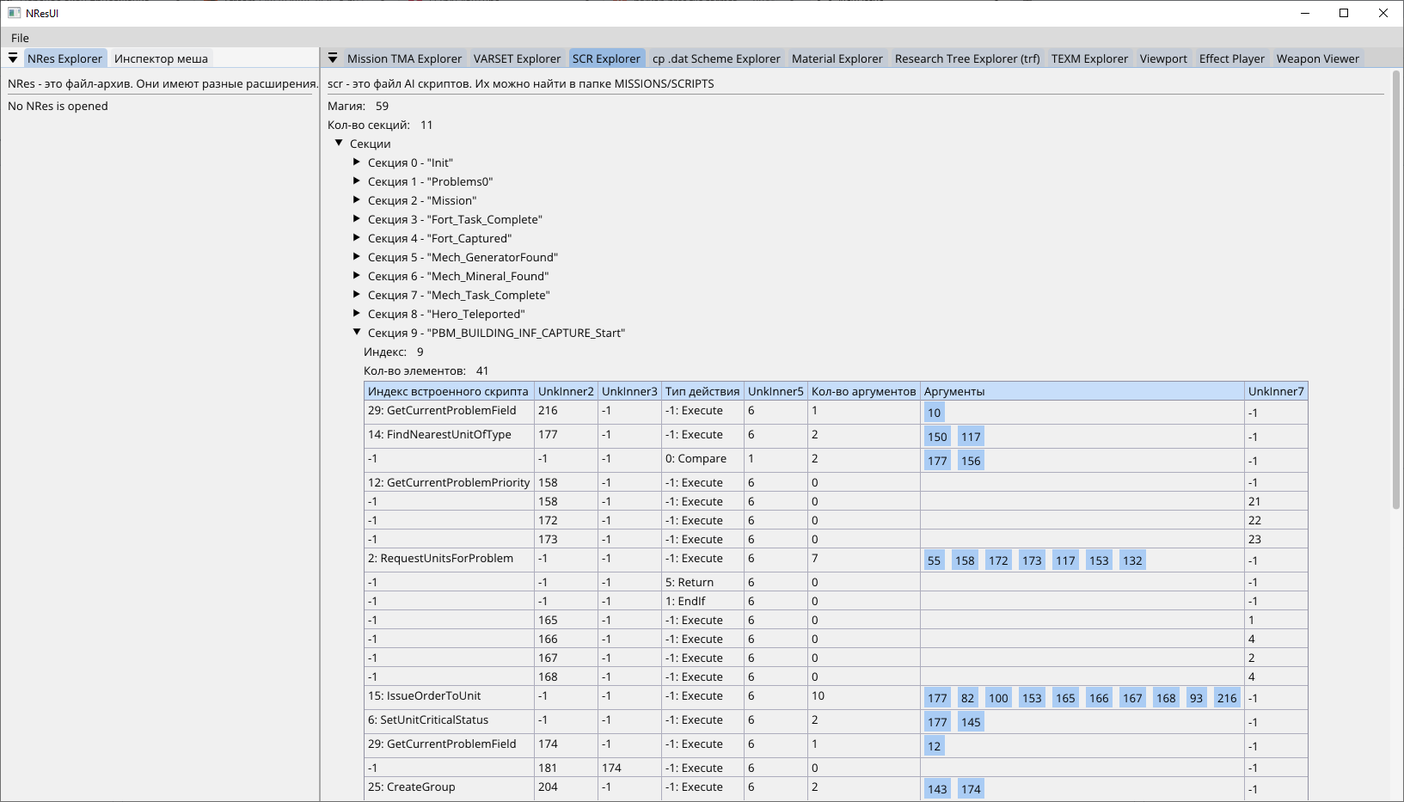
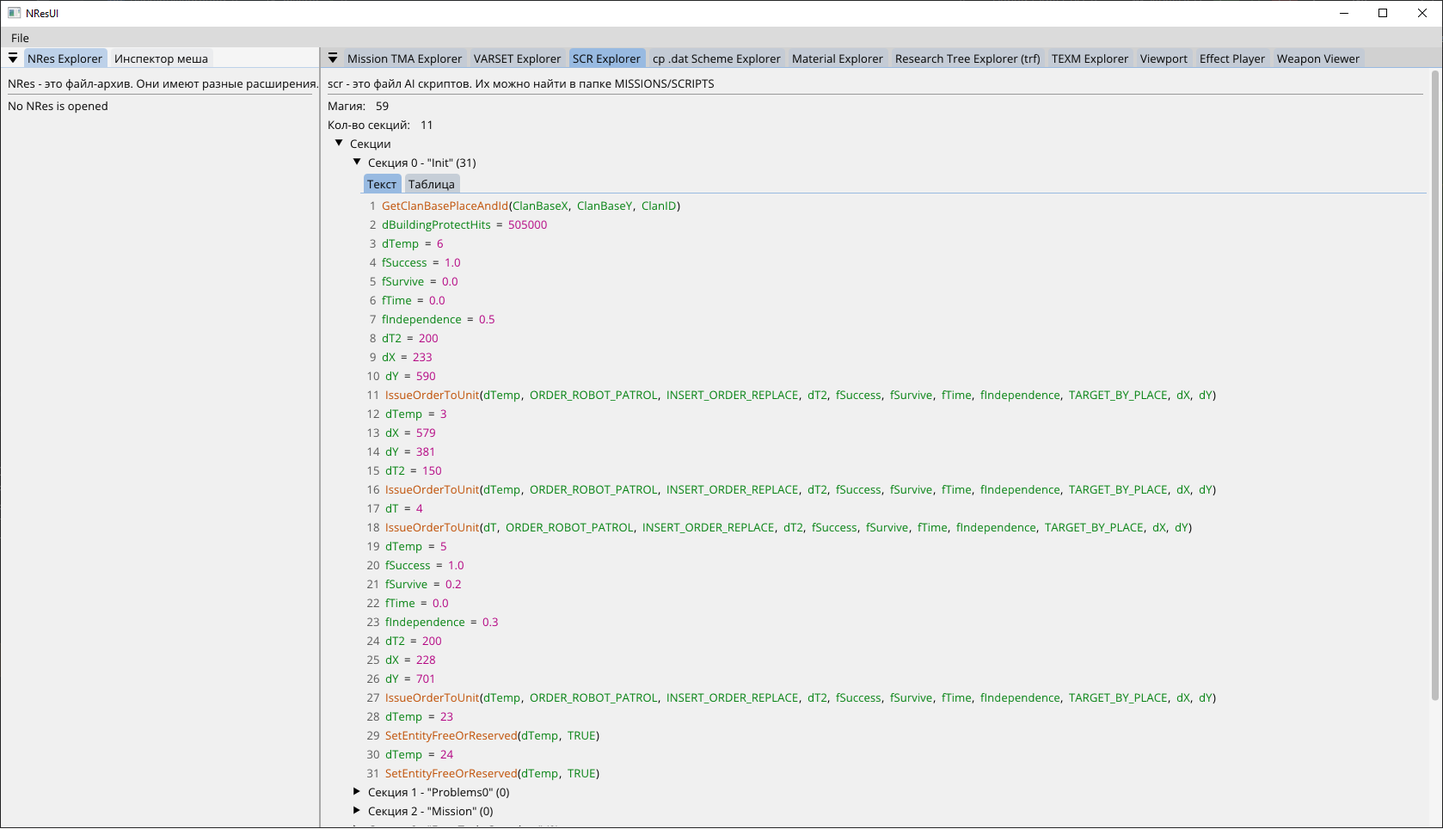
ScrLib: named built-in actions 18, 36, 40, 41, 43-45, 47, RequestUnitsForProblem docs, new screenshot

diff --git a/ScrLib/ScrActions.cs b/ScrLib/ScrActions.cs
@@ -4,7 +4,7 @@ namespace ScrLib;
 /// Встроенные функции скриптов (<c>ScrEntryInner.NativeActionIndex</c> у инструкций типа Execute): таблица <c>action_0..action_58</c> в ai.dll
 /// (<c>SuperAI::ctor</c>, 0x02461000). Названы по декомпилированному коду и по использованию в 75 .scr
 /// (аргументы - переменные Varset, имена и константы в <c>MISSIONS/SCRIPTS/varset.var</c>). Поведение в игре не наблюдалось.
-/// Функции без записи в таблице не разобраны.
+/// Функции без записи в таблице (1, 4, 5, 10, 21, 22, 23, 26, 33, 39, 42, 46, 48, 53, 55) не встречаются ни в одном .scr игры, реверс по ним остановлен.
 /// </summary>
 public static class ScrActions
 {
@@ -24,6 +24,7 @@ public static class ScrActions
         [15] = "IssueOrderToUnit",
         [16] = "GetStorageResourceAmount",
         [17] = "GetMineResourceAmount",
+        [18] = "FindBuildPlaceNearBase",
         [19] = "GetClanBasePlaceAndId",
         [20] = "RegisterProblemTargetPoint",
         [24] = "DisbandGroup",
@@ -36,8 +37,15 @@ public static class ScrActions
         [32] = "ArealContainsLogicId",
         [34] = "CountOwnUnitsByType",
         [35] = "FindNearestEnemyUnit",
+        [36] = "FindWeakestEnemyTarget",
         [37] = "FindNearestOwnBuilding",
         [38] = "CountSummaryClanBF",
+        [40] = "FindFreeDepositOrEnemyMine",
+        [41] = "StartSelectedResearch",
+        [43] = "SelectCheapestScheme",
+        [44] = "CalcWeightAroundPoint",
+        [45] = "GetProblemAssignedWeight",
+        [47] = "FindEnemyNearBase",
         [49] = "CountFreeMinds",
         [50] = "GetUnitFromProblem",
         [51] = "SetEntityFreeOrReserved",
@@ -48,6 +56,63 @@ public static class ScrActions
         [58] = "GetOwnBuildingByIndex",
     };
 
+    /// <summary>
+    /// Ожидаемые аргументы и результат встроенных функций (по использованию в 75 .scr и коду ai.dll; поведение в игре не наблюдалось).
+    /// Аргументы - переменные Varset, перечислены по порядку; у функций без записи роль аргументов не выяснена.
+    /// </summary>
+    public static readonly IReadOnlyDictionary<int, ScrActionSignature> Signatures = new Dictionary<int, ScrActionSignature>
+    {
+        [0] = new(["игнорируется"], "true"),
+        [2] = new(["тип проблемы PBM_* (по имени переменной ищутся секции <имя>_Start/_Continue)", "приоритет (float)", "число шагов", "убывание шага за тик", "target_x (у ROBOT_NEEDED - класс юнита, у ATTACK_UNIT - LogicID цели)", "target_y (обычно NONE)", "target_extra (критерий SELECT_* или требуемая сила)"], null),
+        [3] = new([], "float: остаток распределителя ресурсов"),
+        [6] = new(["LogicID юнита", "UNIT_NORMAL / UNIT_CRITICAL"], null),
+        [7] = new([], null),
+        [8] = new(["ST_SOLVING / ST_SOLVED"], null),
+        [9] = new([], null),
+        [11] = new(["тип здания / робота"], "лимит достигнут или нет"),
+        [12] = new([], "float: приоритет"),
+        [13] = new(["UNIT_FREE_UNIT / UNIT_ANY_UNIT", "тип"], "LogicID юнита"),
+        [14] = new(["UNIT_ANY_UNIT / UNIT_ANY_CAPTURER / ...", "тип"], "LogicID юнита"),
+        [15] = new(["юнит", "приказ ORDER_*", "режим вставки INSERT_ORDER_*", "проблема", "fSuccess", "fSurvive", "fTime", "fIndependence", "способ цели TARGET_BY_*", "цель"], null),
+        [16] = new(["BUILDING_STORAGE", "RESOURCE_ORE"], "float: количество ресурса"),
+        [17] = new(["BUILDING_MINE", "RESOURCE_LEFT_ORE"], "float: количество ресурса"),
+        [18] = new(["X (выход)", "Y (выход; 0, 0 - места нет)"], null),
+        [19] = new(["переменная для X базы", "переменная для Y базы", "переменная для индекса клана"], null),
+        [20] = new(["проблема", "X", "режим", "значение"], null),
+        [24] = new(["номер группы"], null),
+        [25] = new(["TAKE_* / CREATE_EMPTY", "число"], "номер группы"),
+        [27] = new(["действие ACTION_*", "способ цели EXP_TARGET_BY_*", "цель"], null),
+        [28] = new(["группа", "приказ ORDER_*", "... как у IssueOrderToUnit (№15)"], null),
+        [29] = new(["номер поля: 0, 1 или 2"], "float / int: поле проблемы"),
+        [30] = new(["вид сообщения", "значение"], null),
+        [31] = new(["клан", "маска CLASS_*"], "число юнитов"),
+        [32] = new(["ареал", "значение"], "true / false"),
+        [34] = new(["тип BUILDING_*"], "число"),
+        [35] = new(["дальность", "переменная под расстояние"], "LogicID"),
+        [36] = new(["радиус (float)", "переменная под минимальный вес"], "LogicID вражеского объекта с минимальным весом вокруг"),
+        [37] = new(["переменная под расстояние"], "LogicID"),
+        [38] = new(["клан", "FREE_UNITS / ALL_UNITS"], "число"),
+        [40] = new(["X (выход)", "Y (выход)", "вес вокруг (выход)"], "ERROR; LogicID вражеского рудника, если свободных месторождений нет"),
+        [41] = new(["LogicID здания (института)"], "bool: исследование запущено"),
+        [43] = new([], null),
+        [44] = new(["радиус (float)", "клан или ERROR (все чужие)", "TARGET_BY_LOGIC_ID / TARGET_BY_PLACE", "LogicID или X", "Y (только для TARGET_BY_PLACE)"], "суммарный вес объектов в радиусе (целое)"),
+        [45] = new([], "суммарный вес юнитов, назначенных на текущую проблему"),
+        [47] = new(["запас дальности (в данных 0)", "переменная под вес (выход)"], "LogicID вражеского объекта около базы или ERROR"),
+        [49] = new([], "число"),
+        [50] = new(["ORDER_ROBOT_*"], "LogicID"),
+        [51] = new(["LogicID", "TRUE / FALSE"], null),
+        [52] = new(["LogicID"], "значение или ошибка"),
+        [54] = new(["LogicID"], null),
+        [56] = new([], "bool"),
+        [57] = new(["значение 1", "значение 2"], null),
+        [58] = new(["порядковый номер"], "LogicID"),
+    };
+
     public static string Describe(int scriptIndex) =>
         scriptIndex < 0 ? "-1" : Names.TryGetValue(scriptIndex, out var name) ? $"{scriptIndex}: {name}" : scriptIndex.ToString();
 }
+
+/// <summary>Ожидаемые аргументы и результат встроенной функции скрипта.</summary>
+/// <param name="Arguments">Роли аргументов по порядку.</param>
+/// <param name="Result">Что возвращает функция в переменную результата; null - ничего.</param>
+public record ScrActionSignature(string[] Arguments, string? Result);

diff --git a/ScrLib/README.md b/ScrLib/README.md
@@ -10,7 +10,7 @@
 | Файл | Что хранит | Парсер |
 |---|---|---|
 | `NAME.scr` | бинарный файл: секции-обработчики событий и проблем, в них - инструкции | `ScrLib.ScrParser` |
-| `NAME.fml` | текстовые формулы: по одной на вызов «формулы» из `.scr` | не разбирается (читается как текст) |
+| `NAME.fml` | текстовые формулы: по одной на вызов «формулы» из `.scr` | `FmlParser.ReadFile` → `FmlFile` (список `FmlFormula`) |
 | `varset.var` | текстовый набор переменных и констант, общий для всех скриптов | `VarsetLib.VarsetParser` |
 
 В игре 50 пар `.scr` + `.fml`, один `varset.var`; кроме них там же лежат 49 файлов `.trf` (дерево исследований, см. `ResTreeLib`).
@@ -71,7 +71,7 @@ FUNCTION( , dBuildingProtectHits - dT2,  )
 
 Первое и третье поле (имя и комментарий) во всех 1975 формулах пусты; второе - арифметическое выражение над переменными из `varset.var`
 (операции: сложение, вычитание, умножение, деление, степень, смена знака, нормирование, взятие знака, приведение к булеву, модуль). Индекс формулы -
-это номер строки, на который ссылается инструкция `Execute` (`FmlFunctionIndex`). Число формул в `.fml` совпадает с числом инструкций-формул в `.scr`
+это порядковый номер формулы (с 0, считая только строки `FUNCTION`), на который ссылается инструкция `Execute` (`FmlFunctionIndex`); парсер: `FmlParser`. Число формул в `.fml` совпадает с числом инструкций-формул в `.scr`
 (в сумме по 50 файлам 1975).
 
 ## 4. Переменные `varset.var`
@@ -94,13 +94,13 @@ FUNCTION( , dBuildingProtectHits - dT2,  )
 
 ## 5. Встроенные функции (`NativeActionIndex`)
 
-Таблица в `SuperAI::ctor` (`ai.dll` 0x02461000) содержит 59 функций `action_0..action_58`. Аргументы - индексы переменных `varset.var`. Для 36 из них известна роль
-(`ScrLib.ScrActions`); остальные 23 пока безымянны (часть из них в данных не встречается).
+Таблица в `SuperAI::ctor` (`ai.dll` 0x02461000) содержит 59 функций `action_0..action_58`. Аргументы - индексы переменных `varset.var`. Для 44 из них известна роль
+(`ScrLib.ScrActions`); остальные 15 пока безымянны (часть из них в данных не встречается).
 
 | № | Имя | Аргументы (по использованию в данных) | Результат |
 |---|---|---|---|
 | 0 | `BindGlobalSuperAI` | одна переменная, игнорируется | `true` |
-| 2 | `RequestUnitsForProblem` | `PBM_*`, fTemp, dTemp1, dTemp2, класс юнита, NONE, `SELECT_*` | - |
+| 2 | `RequestUnitsForProblem` | `PBM_*`, приоритет, число шагов, убывание за тик, `target_x`, `target_y`, `target_extra` (подробно - в разделе «Функция №2» ниже) | - |
 | 3 | `GetDistributorSurplus` | - | float: остаток распределителя ресурсов |
 | 6 | `SetUnitCriticalStatus` | LogicID юнита, `UNIT_NORMAL`/`UNIT_CRITICAL` | - |
 | 7 | `DeleteCurrentProblem` | - | - |
@@ -113,6 +113,7 @@ FUNCTION( , dBuildingProtectHits - dT2,  )
 | 15 | `IssueOrderToUnit` | юнит, `ORDER_*`, `INSERT_ORDER_*`, проблема, fSuccess, fSurvive, fTime, fIndependence, `TARGET_BY_*`, цель | - |
 | 16 | `GetStorageResourceAmount` | `BUILDING_STORAGE`, `RESOURCE_ORE` | float |
 | 17 | `GetMineResourceAmount` | `BUILDING_MINE`, `RESOURCE_LEFT_ORE` | float |
+| 18 | `FindBuildPlaceNearBase` | X, Y (оба - выходные) | - (место пишется в аргументы; `0, 0` - свободного места нет). Спираль вокруг базы до радиуса 1500: проходимость, покрытие ареалом, ровность, дальше 250 от других объектов |
 | 19 | `GetClanBasePlaceAndId` | три переменные для X, Y базы и индекса клана | - |
 | 20 | `RegisterProblemTargetPoint` | проблема, X, режим, значение | - |
 | 24 | `DisbandGroup` | номер группы | - |
@@ -125,8 +126,15 @@ FUNCTION( , dBuildingProtectHits - dT2,  )
 | 32 | `ArealContainsLogicId` | ареал, значение | true/false |
 | 34 | `CountOwnUnitsByType` | `BUILDING_*` | число |
 | 35 | `FindNearestEnemyUnit` | дальность, переменная под расстояние | LogicID |
+| 36 | `FindWeakestEnemyTarget` | радиус (float), переменная под значение веса | LogicID вражеского объекта, вокруг которого суммарный вес минимален; вес пишется во второй аргумент |
 | 37 | `FindNearestOwnBuilding` | переменная под расстояние | LogicID |
 | 38 | `CountSummaryClanBF` | клан, `FREE_UNITS`/`ALL_UNITS` | число |
+| 40 | `FindFreeDepositOrEnemyMine` | X, Y, вес (все выходные) | `ERROR` при найденном свободном месторождении (его X, Y и вес - в аргументы); иначе LogicID здания на месторождении чужого клана с минимальным весом вокруг |
+| 41 | `StartSelectedResearch` | LogicID института | bool: исследование выбранной схемы запущено |
+| 43 | `SelectCheapestScheme` | - | - (один раз в `Init`: перебирает схемы `.dat`, запоминает самую дешёвую по `CalcFullResearchCost`) |
+| 44 | `CalcWeightAroundPoint` | радиус, клан или `ERROR` (все чужие), `TARGET_BY_LOGIC_ID`/`TARGET_BY_PLACE`, LogicID или X, Y | сумма весов объектов в радиусе (целое) |
+| 45 | `GetProblemAssignedWeight` | - | сумма весов юнитов, назначенных на текущую проблему |
+| 47 | `FindEnemyNearBase` | запас дальности (в данных 0), переменная под вес | LogicID первого вражеского объекта ближе `запас + furthest_building_distance` от базы, иначе `ERROR` |
 | 49 | `CountFreeMinds` | - | число |
 | 50 | `GetUnitFromProblem` | `ORDER_ROBOT_*` | LogicID |
 | 51 | `SetEntityFreeOrReserved` | LogicID, `TRUE`/`FALSE` | - |
@@ -136,7 +144,71 @@ FUNCTION( , dBuildingProtectHits - dT2,  )
 | 57 | `HostCallKind2` | два значения | - |
 | 58 | `GetOwnBuildingByIndex` | порядковый номер | LogicID |
 
-Функции, чьи имена пока не определены: 1, 4, 5, 10, 18, 21, 22, 23, 26, 33, 36, 39, 40, 41, 42, 43, 44, 45, 46, 47, 48, 53, 55.
+**Что такое «вес».** Функции 36, 40, 44, 45, 47 (и 35, 37) считают силу как сумму весов; вес объекта - `(f24 + 0.8) * f20`, где `f20`, `f24` - два float записи
+об объекте в списке ареала (`IArealMap`, запись 0x28 байт: LogicID, клан, x, y, ...). По смыслу (`dBuildingProtectHits`, `TAKE_BY_HITS`) это оценка по hits юнита;
+точный смысл двух float по коду не подтверждён. Фильтр по клану: `ERROR` - все кланы с враждебным отношением (см. «Отношения между кланами»), иначе только указанный клан.
+Типичный сценарий вражеского скрипта: `dTemp = action_36(300, dTemp3)` → `RequestUnitsForProblem(PBM_ATTACK_UNIT, ..., dTemp, NONE, dTemp3)`; при защите
+`action_45` сравнивается с `dBuildingProtectHits`, а нехватка добирается `CreateGroup(TAKE_BY_HITS, нехватка)`.
+
+**Не разобраны:** 1, 4, 5, 10, 21, 22, 23, 26, 33, 39, 42, 46, 48, 53, 55. Ни одна из них не встречается ни в одном из 75 `.scr` (проверено по [дампам](../docs/scripts/README.md): `grep "act=N "`), поэтому игра их не использует; реверс этих функций остановлен как не имеющий практической ценности. Если понадобятся, они лежат в таблице `SuperAI::ctor` (`ai.dll` 0x02461000) как `action_N`.
+
+
+## Функция №2: `RequestUnitsForProblem`
+
+Самая частая встроенная функция (202 вызова из 1877): создаёт проблему клана или продлевает уже существующую. Реализация - `SuperAI::ActionRequestUnitsForProblem`
+(`ai.dll` 0x02469232) и `SuperAI_State::apply_action` (0x024657d0).
+
+### Аргументы
+
+Все семь аргументов - индексы переменных Varset.
+
+| № | Что это | Тип переменной | Куда попадает в `Problem` | Значения в данных |
+|---|---|---|---|---|
+| 0 | тип проблемы `PBM_*` | DWORD | `nProblem_type`; **имя** переменной определяет секции скрипта | `PBM_ROBOT_NEEDED` 131 вызов, `PBM_BUILDING_INF_CAPTURE` 16, `PBM_BUILDING_NEEDED` 11, ... (14 типов) |
+| 1 | приоритет | float | `priority` | 0.45 .. 1.0: чаще всего 0.5 (25), 0.52 (18), 0.8 (15), 0.55 (7) |
+| 2 | число шагов | число | `remaining_steps` и `nInitial_steps` | 25 (91 раз), 1 (42), 5 (45), 15, 30, 14, 51, 35 |
+| 3 | убывание за тик | число | `step_decrement` | пара «шаги / убывание»: 25/24 (91), 1/0 (42), 5/2 (42), 15/14 (8), 30/10 (5), 14/13 (4), 51/50 (4), 35/34 (3), 5/4 (3) |
+| 4 | `target_x` | DWORD или float | `flTarget_x` | у `PBM_ROBOT_NEEDED` - класс юнита (`ROBOT_BATTLEUNIT`, `ROBOT_BUILDER`...), у `PBM_BUILDING_NEEDED` - тип здания (`BUILDING_PLANT`), у `PBM_ATTACK_UNIT` - LogicID цели |
+| 5 | `target_y` | DWORD или float | `flTarget_y` | почти всегда `NONE` |
+| 6 | `target_extra` | DWORD или float | `flTarget_extra` | у `PBM_ROBOT_NEEDED` - критерий выбора `SELECT_*`, у `PBM_ATTACK_UNIT` - требуемая сила (результат №36 / №47) |
+
+Переменные аргументов 4-6 в float переводятся так: DWORD -> число, float -> как есть, любой другой тип (целое со знаком, bool, строка) -> 0.
+Поэтому для целей и классов в `varset.var` используются именно DWORD-константы.
+
+### Что делает
+
+1. Из **имени** переменной аргумента 0 строятся имена секций `<имя>_Start` и `<имя>_Continue` (для `PBM_ROBOT_NEEDED` это `PBM_ROBOT_NEEDED_Start`
+   и `PBM_ROBOT_NEEDED_Continue`) и ищутся в скрипте. Найденные индексы запоминаются в `start_problem_ai_script_indices[тип]` и
+   `continue_problem_ai_script_indices[тип]`. **Если в скрипте нет любой из двух секций, запрос молча отбрасывается.** Поэтому в каждом `.scr`
+   есть пары секций (пусть и пустые, например `PBM_BASE_DEFENCE_Continue` с 0 инструкций).
+2. Строится `Problem` с полями из таблицы выше.
+3. Тождество проблемы - тройка (`nProblem_type`, `target_x`, `target_y`). Если проблема с такой тройкой уже есть в `ProblemsArray`:
+   - при `priority` не меньше текущего - приоритет заменяется, а к `remaining_steps` прибавляется `nInitial_steps` (проблема «продлевается»);
+   - иначе запрос игнорируется.
+4. Если такой проблемы нет - она добавляется в `ProblemsArray`.
+5. Результат функции - `FALSE`.
+
+Дальнейшая жизнь проблемы: каждый тик (`Problem::Update`) `remaining_steps` уменьшается на `step_decrement`; при значении меньше 1 проблема считается решённой.
+Поэтому пара 25/24 даёт проблему, которая без повторного запроса истекает через два тика, а пара 1/0 (`step_decrement` = 0) по шагам не истекает и живёт,
+пока не выполнится цель. Повторный запрос с той же тройкой продлевает проблему (пункт 3); скрипты секции `Problems0` именно так и составлены - условие проверяется
+заново и запрос повторяется. `<имя>_Start` - начало решения проблемы, `<имя>_Continue` - продолжение; обе читают параметры проблемы через `GetCurrentProblemField`.
+
+### Типичный пример (из `13e.scr`, секция `Problems0`)
+
+```
+fTemp  = action_12 GetCurrentProblemPriority()
+fTemp  = fTemp + 0.00001
+dTemp1 = 25      ; число шагов
+dTemp2 = 24      ; убывание за тик
+action_2 RequestUnitsForProblem(PBM_ROBOT_NEEDED, fTemp, dTemp1, dTemp2, ROBOT_BATTLEUNIT, NONE, SELECT_SMALLEST)
+```
+
+## Отношения между кланами
+
+В `SuperAI_State.clan_relations[клан]` (в Ghidra так названо поле `array_of_64_1`) для каждого другого клана хранится запись из четырёх значений:
+«настроение» 0..1 (float), накопленные уменьшение и увеличение, и **отношение** (`[3]`): 0 - враждебный, 1 - нейтральный, 2 - дружественный.
+Функции №35, №36, №40, №44 (с `ERROR`) и №47 считают противниками только кланы с отношением 0. Отношение выводится из настроения порогами
+0.3333 и 0.6666 (`SuperAI_State_UpdateClanRelations`), начальное настроение - 0.1667, то есть по умолчанию клан враждебен.
 
 ## 6. Проблемы (`Problem`)
 
@@ -155,3 +227,7 @@ FUNCTION( , dBuildingProtectHits - dT2,  )
 - Панель `ScrExplorer` в NResUI показывает секции и инструкции с названиями встроенных функций.
 - `VarsetExplorerPanel` - переменные и константы.
 - Код разбора: `ScrParser.ReadFile`, `ScrFile`, `ScrEntry`, `ScrEntryInner`, `ScrActions`; XML-комментарии к типам содержат ту же информацию.
+
+## Текстовые дампы
+
+Готовые текстовые дампы всех скриптов (с формулами и именами переменных) лежат в [docs/scripts](../docs/scripts/README.md); их строит `ScrTextDumper`. Удобны для поиска (`grep`) и сверки с `ai.dll`.
